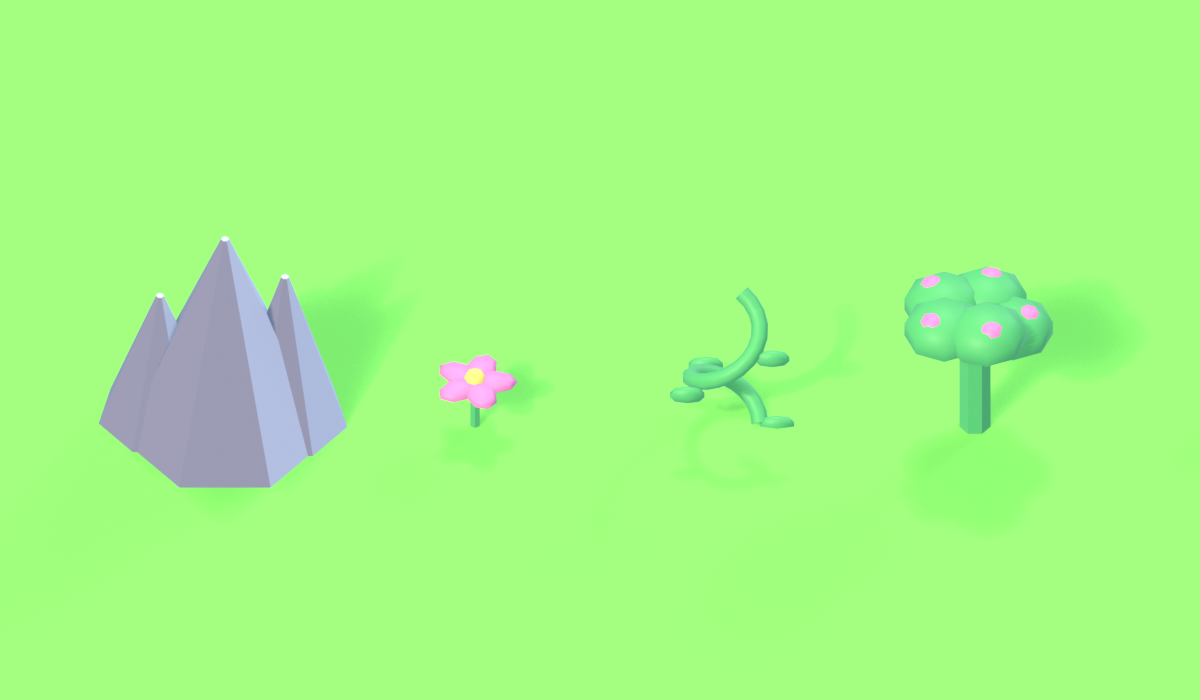
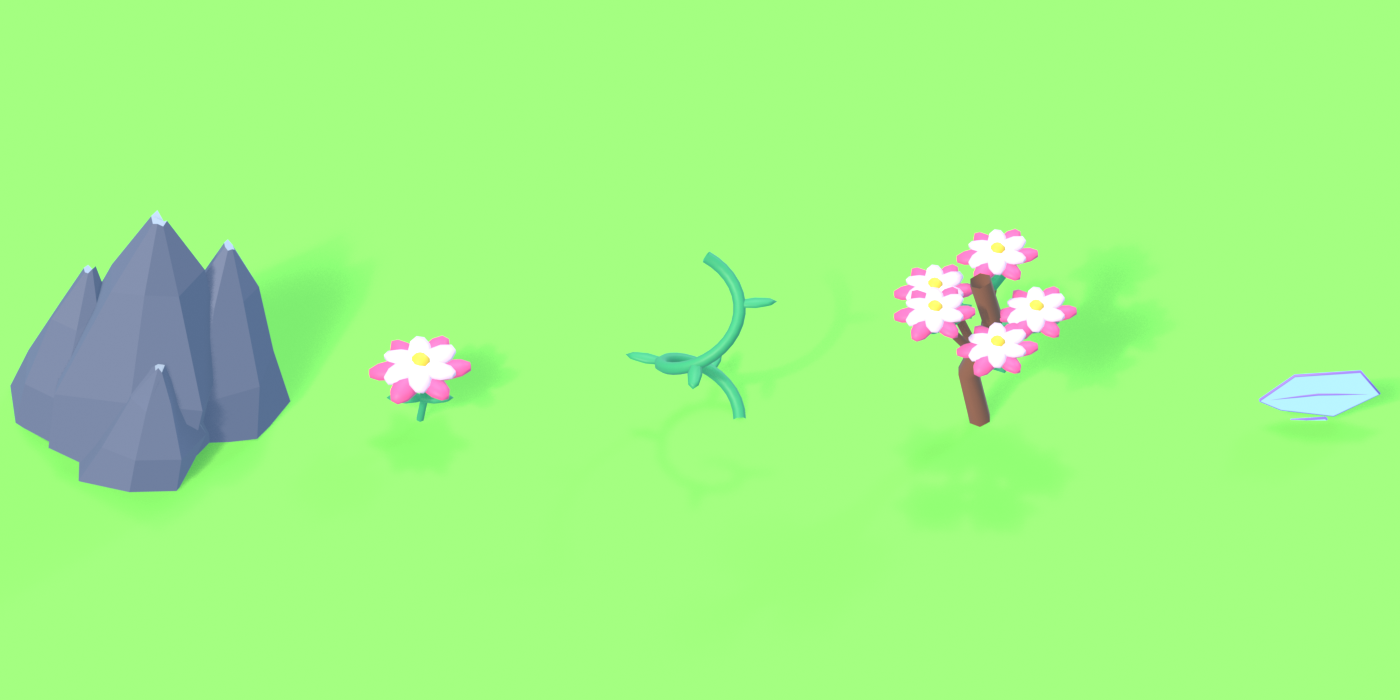
Polish cape flight transitions and upgrade skill and dragon art

Changed region(s): [[0.0, 0.3, 1.0, 0.72]]

diff --git a/src/costume-motion.ts b/src/costume-motion.ts
@@ -39,12 +39,38 @@ export function poseCostume(l:Limbs,motion:CostumeMotion,remaining:number) {
 }
 
 export function poseFlight(l:Limbs,fairy:boolean,moving:boolean,time:number) {
-  const tilt=fairy?.14:Math.PI/6;
+  const tilt=fairy?.14:Math.PI/10;
   l.legL?.rotation.set(moving?.18:.12,0,-.1);l.legR?.rotation.set(moving?.22:.12,0,.1);
   l.armL?.rotation.set(moving?(fairy?-.6:-1.65):-.22,0,fairy?-.6:-.26);
   l.armR?.rotation.set(moving?(fairy?-.6:-1.65):-.22,0,fairy?.6:.26);
   return {lean:moving?tilt:0,lift:Math.sin(time*(fairy?3.4:4))*.07};
 }
+
+/** Keep both solidified cloth surfaces on one hinge, outside the thick ink hull. */
+export function prepareCostume(model:T.Object3D) {
+  if(model.getObjectByName('cape-hinge'))return;
+  const cloth:T.Mesh[]=[];
+  model.traverse(o=>{if(o instanceof T.Mesh&&o.name.includes('cape'))cloth.push(o);});
+  const parent=cloth[0]?.parent;if(!parent)return;
+  model.updateMatrixWorld(true);
+  const bounds=new T.Box3();for(const mesh of cloth)bounds.expandByObject(mesh);
+  const shoulder=bounds.getCenter(new T.Vector3());shoulder.y=bounds.max.y;
+  const hinge=new T.Group();hinge.name='cape-hinge';hinge.position.copy(parent.worldToLocal(shoulder));parent.add(hinge);
+  for(const mesh of cloth){mesh.userData.noOutline=true;mesh.castShadow=false;mesh.receiveShadow=false;hinge.attach(mesh);}
+}
+
+const flights=new WeakMap<T.Object3D,{move:number;air:number}>();
+/** Exponential blends are independent of frame rate and shared by local/remote avatars. */
+export function smoothFlight(model:T.Object3D,l:Limbs,fairy:boolean,flying:boolean,moving:boolean,time:number,dt:number,active=true) {
+  let state=flights.get(model);if(!state){state={move:0,air:0};flights.set(model,state);}
+  const k=1-Math.exp(-Math.max(0,dt)*9);
+  state.move+=(Number(flying&&moving)-state.move)*k;state.air+=(Number(flying)-state.air)*k;
+  if(!active)return {lean:0,lift:0,air:state.air,weight:0};
+  const target=limbTargets(fairy,state.move);
+  for(const key of ['armL','armR','legL','legR'] as const){const limb=l[key];if(limb){limb.rotation.x+=(target[key][0]-limb.rotation.x)*state.air;limb.rotation.z+=(target[key][1]-limb.rotation.z)*state.air;}}
+  return {lean:state.move*(fairy?.14:Math.PI/10),lift:Math.sin(time*(fairy?3.4:4))*.07*state.air,air:state.air,weight:state.air};
+}
+function limbTargets(fairy:boolean,m:number){return {armL:[-.22+m*((fairy?-.6:-1.65)+.22),fairy?-.6:-.26],armR:[-.22+m*((fairy?-.6:-1.65)+.22),fairy?.6:.26],legL:[.12+m*.06,-.1],legR:[.12+m*.1,.1]};}
 
 /** Accessory animation is cached per avatar; shared GLB geometry is never modified. */
 const accessories=new WeakMap<T.Object3D,{cape?:T.Object3D; oldWings:T.Object3D[]; wings:T.Group[]}>();
@@ -52,8 +78,8 @@ export function animateCostume(model:T.Object3D,id:string|undefined,flying:boole
   if(id!=='dz_fairy'&&id!=='dz_superhero')return;
   requestSkillArt();
   let entry=accessories.get(model);
-  if(!entry){entry={oldWings:[],wings:[]};model.traverse(o=>{if(o.name.includes('cape')&&!entry!.cape)entry!.cape=o;if(o.name.includes('wings'))entry!.oldWings.push(o);});accessories.set(model,entry);}
-  if(id==='dz_superhero'&&entry.cape){entry.cape.rotation.x=Math.sin(time*4)*.045+(flying?.16:0);}
+  if(!entry){prepareCostume(model);entry={cape:model.getObjectByName('cape-hinge'),oldWings:[],wings:[]};model.traverse(o=>{if(o.name.includes('wings'))entry!.oldWings.push(o);});accessories.set(model,entry);}
+  if(id==='dz_superhero'&&entry.cape){entry.cape.rotation.x=Math.sin(time*4)*.045+(flights.get(model)?.air??Number(flying))*.16;}
   if(id==='dz_fairy'){
     if(!entry.wings.length&&skillArt.ready){const body=part(model,'body')??model;
       for(const side of [-1,1]){const wing=skillArt.instance('skill_wing');if(!wing)continue;wing.name=`fairy-flight-wing-${side}`;wing.position.set(side*.08,.25,-.38);wing.scale.x=side;body.add(wing);entry.wings.push(wing);}

diff --git a/src/costume-fx.ts b/src/costume-fx.ts
@@ -12,19 +12,21 @@ export class CostumeFx {
   private free=new Map<string,T.Group[]>();
   private time=0;
   private nextTrail=0;
+  private budget=24;
   private scene:T.Scene;
   private explorerAt:(x:number,z:number)=>T.Object3D|null;
   private ground:(x:number,z:number)=>number;
   private localModel?:()=>T.Object3D;
   constructor(scene:T.Scene,explorerAt:(x:number,z:number)=>T.Object3D|null,ground:(x:number,z:number)=>number,localModel?:()=>T.Object3D){this.scene=scene;this.explorerAt=explorerAt;this.ground=ground;this.localModel=localModel;this.root.name='costume-fx';scene.add(this.root);}
   private prop(kind:string,x:number,z:number,scale:number,life:number,y=0,holder?:T.Object3D){
-    if(this.props.length>=24)return;
+    if(this.props.length>=this.budget)return;
     const spare=this.free.get(kind)?.pop(),model=spare??skillArt.instance(kind);if(!model)return;if(!spare)bakeModel(model);
     model.position.set(x,this.ground(x,z)+y,z);model.rotation.set(0,(x+z)*1.7,0);model.visible=true;this.root.add(model);
     const prop={model,kind,age:0,life,scale,holder};this.props.push(prop);return prop as Prop;
   }
   effect(e:CombatEffect,fx:Effects|null|undefined){
     if(!['flower','roots','hero','heroDive','mountain'].includes(e.look??''))return false;
+    this.budget=Math.max(8,Math.round(24*(fx?.density??1)));
     requestSkillArt();
     const y=this.ground(e.x,e.z),at={x:e.x,y,z:e.z},r=Math.max(.4,e.radius);
     if(e.look==='flower'){
@@ -54,10 +56,10 @@ export class CostumeFx {
     }
     return false;
   }
-  update(dt:number,fx?:Effects|null,flyers:readonly {model:T.Object3D;fairy:boolean;moving:boolean}[]=[]){
+  update(dt:number,fx?:Effects|null,flyers:readonly {model:T.Object3D;fairy:boolean;moving:boolean}[]|(()=>readonly {model:T.Object3D;fairy:boolean;moving:boolean}[])=[]){
     if(this.root.parent!==this.scene)this.scene.add(this.root);
     this.time+=dt;
-    if(this.time>=this.nextTrail){this.nextTrail=this.time+.14;for(const flyer of flyers.slice(0,8))if(flyer.moving)fx?.burst(flyer.model.position,{n:2,color:flyer.fairy?['#ff82bb','#ffd668']:['#89d9ff','#fff1cc'],glow:true,size:.1,speed:.5,up:.5,y:.6,life:.45,gravity:0});}
+    if(this.time>=this.nextTrail){this.nextTrail=this.time+.14;for(const flyer of (typeof flyers==='function'?flyers():flyers).slice(0,Math.max(2,Math.round(8*(fx?.density??1)))))if(flyer.moving)fx?.burst(flyer.model.position,{n:2,color:flyer.fairy?['#ff82bb','#ffd668']:['#89d9ff','#fff1cc'],glow:true,size:.1,speed:.5,up:.5,y:.6,life:.45,gravity:0});}
     for(let i=this.props.length-1;i>=0;i--){const p=this.props[i];p.age+=dt;
       if(p.holder&&p.age<.8){p.holder.updateWorldMatrix(true,false);p.model.position.set(0,2.4,.25).applyMatrix4(p.holder.matrixWorld);}
       if(p.flight!==undefined&&p.age>=.8){

diff --git a/tests/costume-visuals.test.ts b/tests/costume-visuals.test.ts
@@ -7,6 +7,7 @@ import {KitLibrary} from '../src/assets.ts';
 import {skillArt,mountainArt} from '../src/skill-art.ts';
 import {poseCostume,poseFlight,animateCostume,motionDuration} from '../src/costume-motion.ts';
 import {CostumeFx} from '../src/costume-fx.ts';
+import {Effects} from '../src/fx.ts';
 
 async function load(){const b=await readFile(new URL('../public/assets/models/skill-art.glb',import.meta.url));return (await new GLTFLoader().parseAsync(b.buffer.slice(b.byteOffset,b.byteOffset+b.byteLength),'')).scene;}
 const limbs=()=>({armL:new T.Group(),armR:new T.Group(),legL:new T.Group(),legR:new T.Group(),head:new T.Group()});
@@ -61,4 +62,15 @@ test('remote mountain leaves its holder after windup, travels visually and disap
   fx.update(.4);assert.equal(fx.root.children.length,1);const model=fx.root.children[0];assert.equal(model.position.x,3);
   fx.update(.5);assert.ok(model.position.z>5);assert.ok(model.rotation.x>0);
   fx.effect({kind:'impact',x:model.position.x,z:model.position.z,radius:4,color:'#fff',look:'mountain' as never},null);fx.update(.01);assert.equal(fx.root.children.length,0);
+});
+
+test('mobile density bounds model draw load and evaluates flight trails only at emission time',()=>{
+  const scene=new T.Scene(),particles=new Effects(scene),fx=new CostumeFx(scene,()=>null,()=>0);
+  particles.density=.45;
+  for(let i=0;i<30;i++)fx.effect({kind:'cast',x:i*5,z:0,radius:2,color:'#fff',look:'hero'},particles);
+  assert.equal(fx.root.children.length,11,'mobile effect models use 11 slots versus 24 at full density');
+  let lists=0;const flyers=()=>{lists++;return [];};
+  for(let i=0;i<60;i++)fx.update(1/60,particles,flyers);
+  assert.ok(lists<=8,`only ${lists} flyer-list builds per second`);
+  fx.clear();
 });

diff --git a/tests/world.test.ts b/tests/world.test.ts
@@ -453,15 +453,15 @@ test('superhero W rises and lands on both local and remote avatars',()=>{
 
 test('sustained flight keeps a flying stance instead of the walking cycle locally and remotely',()=>{
  const local=world();local.build('home');local.refreshPlayer();local.playerFlying=true;local.moving=true;local.disguiseT=local.punchT=local.spinT=0;
- (local as unknown as {animatePlayer(dt:number):void}).animatePlayer(.12);
+ for(let i=0;i<20;i++)(local as unknown as {animatePlayer(dt:number):void}).animatePlayer(.12);
  assert.ok(local.player.getObjectByName('arm-left')!.rotation.x<-1);
- assert.ok(Math.abs(local.player.rotation.x-Math.PI/6)<1e-8);
+ assert.ok(Math.abs(local.player.rotation.x-Math.PI/10)<1e-8);
  assert.ok(Math.abs(local.player.getObjectByName('leg-left')!.rotation.x-.18)<1e-8);
  const remote=world();remote.addRemotePlayer('friend',{x:0,z:0,y:1.7,moving:true,visual:{flight:1.7}});
  const model=remote.remotePlayers.get('friend')!.mesh;
- (remote as unknown as {animateRemotes(dt:number):void}).animateRemotes(.12);
+ for(let i=0;i<20;i++)(remote as unknown as {animateRemotes(dt:number):void}).animateRemotes(.12);
  assert.ok(model.getObjectByName('arm-left')!.rotation.x<-1);
- assert.ok(Math.abs(model.rotation.x-Math.PI/6)<1e-8);
+ assert.ok(Math.abs(model.rotation.x-Math.PI/10)<1e-8);
  assert.ok(Math.abs(model.getObjectByName('leg-left')!.rotation.x-.18)<1e-8);
  assert.ok(model.position.y>1.6&&model.position.y<1.8,'flight height is not added twice');
 });

diff --git a/tests/cape-flight.test.ts b/tests/cape-flight.test.ts
@@ -3,6 +3,18 @@ import assert from 'node:assert/strict';
 import * as T from 'three';
 import {prepareCostume,animateCostume,smoothFlight} from '../src/costume-motion.ts';
 import {addOutlines} from '../src/outline.ts';
+import {readFile} from 'node:fs/promises';
+import {GLTFLoader} from 'three/addons/loaders/GLTFLoader.js';
+
+test('the installed superhero GLB keeps both red cape materials together',async()=>{
+  const b=await readFile(new URL('../public/assets/models/disguises.glb',import.meta.url));
+  const scene=(await new GLTFLoader().parseAsync(b.buffer.slice(b.byteOffset,b.byteOffset+b.byteLength),'')).scene;
+  const model=scene.getObjectByName('dz_superhero')!;assert.ok(model);
+  prepareCostume(model);const hinge=model.getObjectByName('cape-hinge')!;assert.ok(hinge);
+  const cloth=hinge.children as T.Mesh[];assert.equal(cloth.length,2);
+  assert.deepEqual(cloth.map(m=>(m.material as T.MeshStandardMaterial).color.getHexString()).sort(),['b51e36','f0303a']);
+  addOutlines(model,{merge:true});assert.ok(cloth.every(m=>m.userData.noOutline&&m.children.length===0));
+});
 
 test('both red cape surfaces share motion and cannot enter the ink hull',()=>{
   const avatar=new T.Group(),body=new T.Group();avatar.add(body);

diff --git a/src/creature-art.ts b/src/creature-art.ts
@@ -11,13 +11,14 @@ import { toToon } from './toon.ts';
  * names the animation already looks for (`leg0`-`leg3`, `wing-l`, `wing-r`). Creatures without art, and every
  * creature until the file arrives (or when it is missing), keep the procedural shapes.
  */
-export const creatureKit = new KitLibrary([KIT_FILES.creatures,KIT_FILES.forestBirds]);
+export const creatureKit = new KitLibrary([KIT_FILES.creatures,KIT_FILES.forestBirds,KIT_FILES.dragon]);
 
 const LEGGED = ['body', 'leg_fl', 'leg_fr', 'leg_bl', 'leg_br'] as const;
 const WINGED = ['body', 'wing_l', 'wing_r'] as const;
 const SOLID = ['body'] as const;
 /** The parts each redrawn creature must have, matching its old family's animated parts (src/world.ts speciesModel). */
 export const CREATURE_PARTS: Readonly<Record<string, readonly string[]>> = {
+  dragon: [...LEGGED, 'wing_l', 'wing_r'],
   mushroom: SOLID, mushking: SOLID, boar: LEGGED, bee: WINGED, wolf: LEGGED, frog: SOLID, crab: LEGGED, chomper: SOLID,
   cactus: SOLID, bear: SOLID, treant: SOLID, croc: LEGGED,
   forest_raptor: ['body','head','wing_l','wing_r'],

diff --git a/tests/creature-art.test.ts b/tests/creature-art.test.ts
@@ -19,7 +19,7 @@ function glb(path: string) {
 }
 
 test('creatures.glb has every redrawn creature with the parts its animation needs, within its triangle budget', () => {
-  const docs = ['creatures.glb','forest-birds.glb'].map(file=>glb(new URL(`../public/assets/models/${file}`, import.meta.url).pathname.replace(/^\/([A-Z]:)/, '$1')));
+  const docs = ['creatures.glb','forest-birds.glb','dragon.glb'].map(file=>glb(new URL(`../public/assets/models/${file}`, import.meta.url).pathname.replace(/^\/([A-Z]:)/, '$1')));
   const roots = new Map(docs.flatMap(doc=>doc.scenes[0].nodes.map(i => [doc.nodes[i].name, {root:doc.nodes[i],doc}] as const)));
   // Quantised positions and normals: GLTFLoader reads them without a decoder.
   assert.ok(docs[0].extensionsRequired?.includes('KHR_mesh_quantization'));

diff --git a/src/outline.ts b/src/outline.ts
@@ -44,7 +44,7 @@ function outlineMesh(geometry: T.BufferGeometry) {
 /** Meshes that get a hull: solid, drawn, not effects or warning decals. */
 function outlinable(o: T.Object3D): o is T.Mesh {
   if (!(o instanceof T.Mesh) || o instanceof T.InstancedMesh || o instanceof T.SkinnedMesh || o.userData.outline) return false;
-  if (!o.visible || o.layers.mask === 0 || o.name === 'attack-telegraph' || !o.geometry.getAttribute('normal')) return false;
+  if (o.userData.noOutline || !o.visible || o.layers.mask === 0 || o.name === 'attack-telegraph' || !o.geometry.getAttribute('normal')) return false;
   const material = o.material as T.Material;
   return !Array.isArray(o.material) && !material.transparent && material.visible;
 }

diff --git a/src/late-art.ts b/src/late-art.ts
@@ -13,7 +13,7 @@ const ROUTES: Array<[LateArt, readonly string[]]> = [
   ['refined', [...Object.values(REFINED_ASSET_FILES), KIT_FILES.space]],
   ['scenery', [KIT_FILES.scenery, KIT_FILES.wilds, KIT_FILES.worldsBright, KIT_FILES.worldsHarsh, KIT_FILES.worldsDressing]],
   ['avatars', [HERO_FILE, KIT_FILES.wear, KIT_FILES.weapons, KIT_FILES.disguises, KIT_FILES.pets]],
-  ['creatures', [KIT_FILES.creatures, KIT_FILES.forestBirds, titanKitFile]],
+  ['creatures', [KIT_FILES.creatures, KIT_FILES.forestBirds, KIT_FILES.dragon, titanKitFile]],
   ['crops', [KIT_FILES.crops, KIT_FILES.fruitCrops]],
   ['farm', [KIT_FILES.farm]],
   ['fish', [KIT_FILES.fish]],

diff --git a/src/assets.ts b/src/assets.ts
@@ -43,6 +43,7 @@ export const KIT_FILES = {
   farm: modelUrl('farm.glb'),
   creatures: modelUrl('creatures.glb'),
   forestBirds: modelUrl('forest-birds.glb'),
+  dragon: modelUrl('dragon.glb'),
   helper: modelUrl('helper.glb'),
   cage: modelUrl('cage.glb'),
 } as const;
